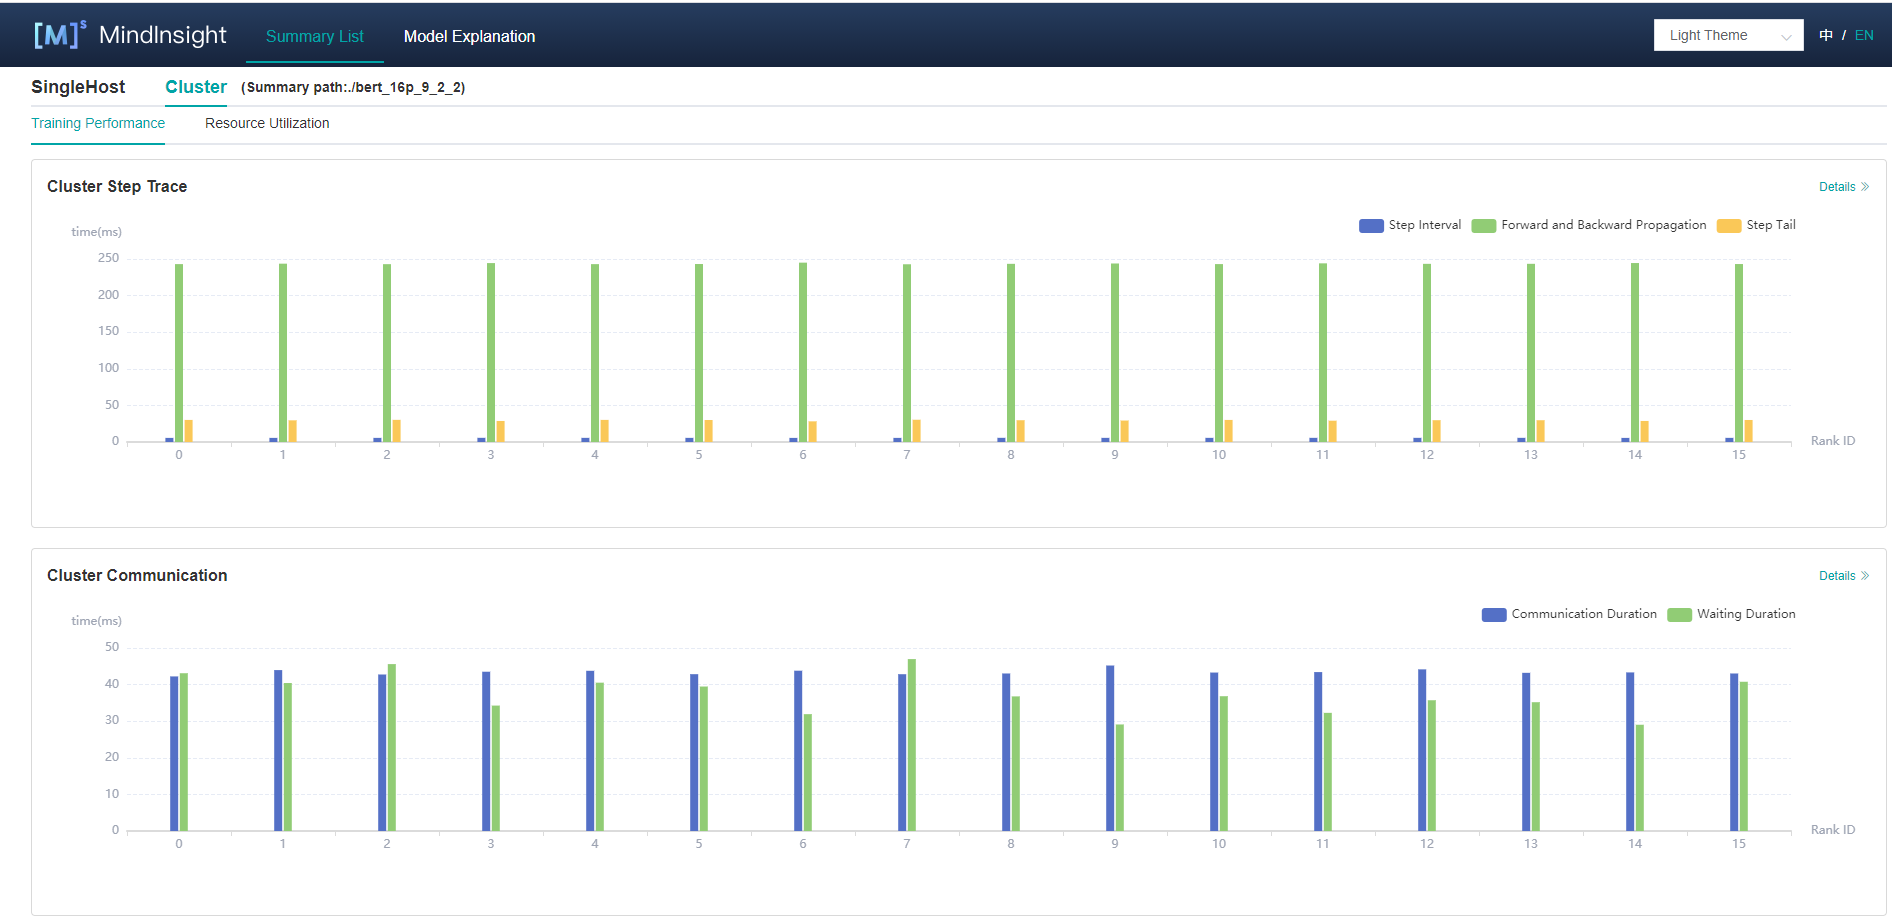
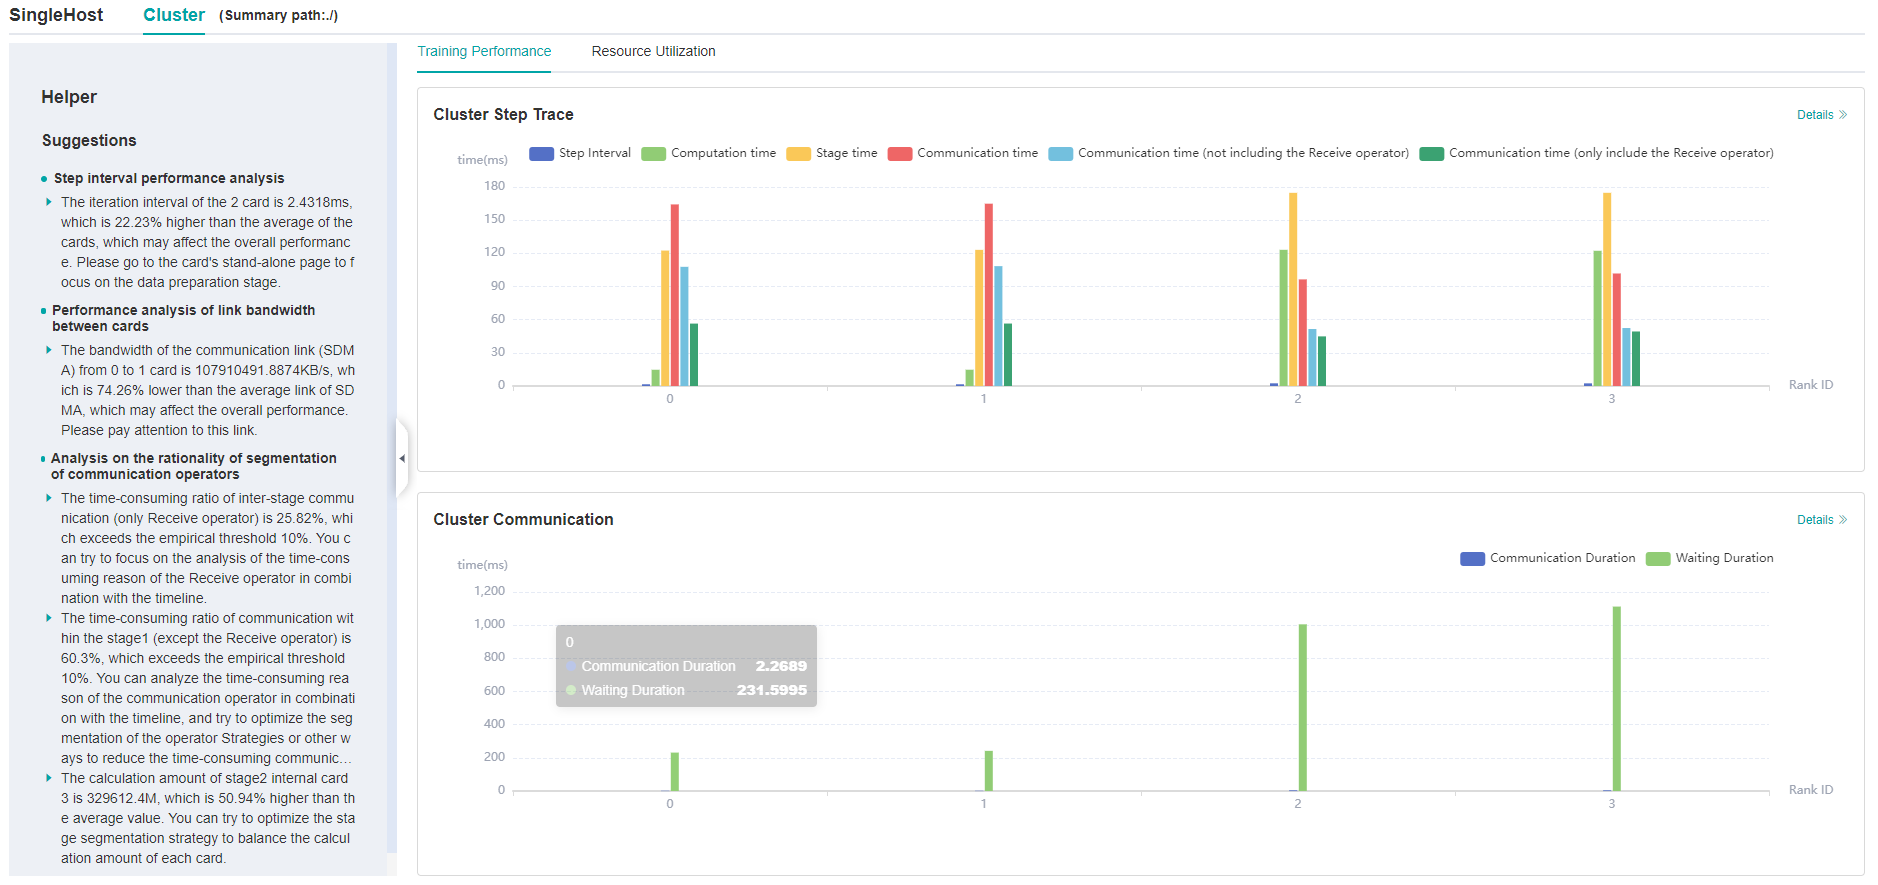
add performance optimization helper

diff --git a/docs/mindinsight/docs/source_zh_cn/performance_profiling_ascend_of_cluster.md b/docs/mindinsight/docs/source_zh_cn/performance_profiling_ascend_of_cluster.md
@@ -202,6 +202,7 @@ done
 
 - 集群迭代轨迹：展示集群中所有卡的迭代轨迹信息；总览页面展示了集群迭代轨迹性能。
 - 集群通信性能: 展示集群中所有卡的通信性能以及全网链路性能；总览页面展示了集群通信性能。
+- 集群性能优化小助手：左侧小助手提供集群训练时可能存在的性能瓶颈点，用户可以根据提示进行训练性能优化。
 
 ### 集群迭代轨迹分析
 
@@ -227,7 +228,7 @@ done
 集群通信与计算重叠时间分析组件新增了五项指标：纯通信时间（仅包含Receive算子）、state时间、纯通信时间、计算时间、纯通信时间（不包含Receive算子）。
 
 - 纯通信时间（仅包含Receive算子）：只有点对点（Receive）通信算子执行、计算算子不执行的时间段。该时间反应的是Pipeline并行各stage间的不同步情况。
-- state时间：各个stage的耗时时长，该值为step时长减去该step内receive通信算子的时长。通过该指标可以查看哪个stage的耗时最长。
+- stage时间：各个stage的耗时时长，该值为step时长减去该step内receive通信算子的时长。通过该指标可以查看哪个stage的耗时最长。
 - 纯通信时间：只有通信算子执行、计算算子不执行的时间段。如果该部分耗时较长，说明通信耗时对性能影响较大。
 - 计算时间：AI Core算子执行的时间总和，用于判断是否有慢的卡。时间越长，说明对应的卡执行速度越慢。
 - 纯通信时间（不包含Receive算子）：只有除Receive通信算子外的其它通信算子执行、计算算子不执行的时间段。该时间段占的比例越大，需要考虑是否可以调整该stage内算子的切分策略，降低该时间段的耗时时长。

diff --git a/docs/mindinsight/docs/source_en/performance_profiling_ascend.md b/docs/mindinsight/docs/source_en/performance_profiling_ascend.md
@@ -248,13 +248,13 @@ The Timeline consists of the following parts:
 
   Each color block represents the starting time and length of operator execution. The detailed explanation of timeline is as follows:
     - Process Device ID: contains the timeline of operators executed on AI Core.
-        - Step: training steps.
+        - Step: the number of training steps.
         - Scope Name: the Scope Name of operators.
-        - Stream ID: operators executed on the stream.
-    - Process AI CPU Op: contains the timeline of operators executed on AI CPU.
-    - Process Communication Op: contains the timeline for the execution of communication operators.
+        - Stream #ID: operators executed on the stream.
+    - Process AI CPU Op: the timeline of operators executed on the AI CPU.
+    - Process Communication Op: the timeline for the execution of communication operators.
     - Process Host CPU Op: contains the timeline of operators executed on the Host CPU.
-    - Process Op Overlap Analyse: the timeline of all computation operators and communication operators merged, analyse the proportion of communication time.
+    - Process Op Overlap Analyse: the timeline of all computation operators and communication operators merged, it can be used to analyse the proportion of communication time.
         - Merged Computation Op: it is the timeline after all computation operators are merged.
         - Merged Communication Op: it is the timeline after all communication operators are merged.
         - Pure Communication Op: pure communication time (the timeline of the communication operator after removing the overlap with the computation operator time).

diff --git a/docs/mindinsight/docs/source_zh_cn/performance_profiling_ascend.md b/docs/mindinsight/docs/source_zh_cn/performance_profiling_ascend.md
@@ -248,13 +248,13 @@ Timeline主要包含如下几个部分：
 
   各个颜色块表示算子执行的起始时间及时长。timeline的详细解释如下：
     - Process AI Core Op：包含在AI Core上执行的算子的时间线。
-        - Step：训练步数。
+        - Step：训练迭代数。
         - Scope Name：算子的Scope Name。
-        - Stream ID：在该stream上执行的算子。
-    - Process AI CPU Op：包含在AI CPU上执行的算子的时间线。
-    - Process Communication Op 节点：包含通信算子执行的时间线。
-    - Process Host CPU Op：包含在Host CPU上执行的算子的时间线。
-    - Process Op Overlap Analyse：所有计算算子与通信算子合并后的时间线，分析通信时间占比。
+        - Stream #ID：在该stream上执行的算子。
+    - Process AI CPU Op：在AI CPU上执行的算子的时间线。
+    - Process Communication Op：包含通信算子执行的时间线。
+    - Process Host CPU Op：在Host CPU上执行的算子的时间线。
+    - Process Op Overlap Analyse：所有计算算子与通信算子合并后的时间线，可用于分析通信时间占比。
         - Merged Computation Op：为所有计算（AI Core、AI CPU、Host CPU）算子合并后的时间线。
         - Merged Communication Op：为所有通信算子合并后的时间线。
         - Pure Communication Op：纯通信时间（通信算子的执行时间去除与计算算子时间重叠部分后的时间线）。

diff --git a/docs/mindinsight/docs/source_en/performance_profiling_ascend_of_cluster.md b/docs/mindinsight/docs/source_en/performance_profiling_ascend_of_cluster.md
@@ -203,6 +203,7 @@ Figure 1 is the overview of cluster training performance, which is the overall p
 
 - Cluster iteration trajectory: The iterative trajectory information of all devices in the cluster is displayed; The overview page shows the cluster iteration trajectory performance.
 - Cluster communication performance: Show the communication performance of all devices in the cluster and the link performance of the whole network; The overview page shows the cluster communication performance.
+- Cluster performance helper: The helper on the left provides possible performance bottlenecks during training, and users can optimize performance according to the prompts.
 
 ### Cluster Iterative Trajectory Analysis
 
